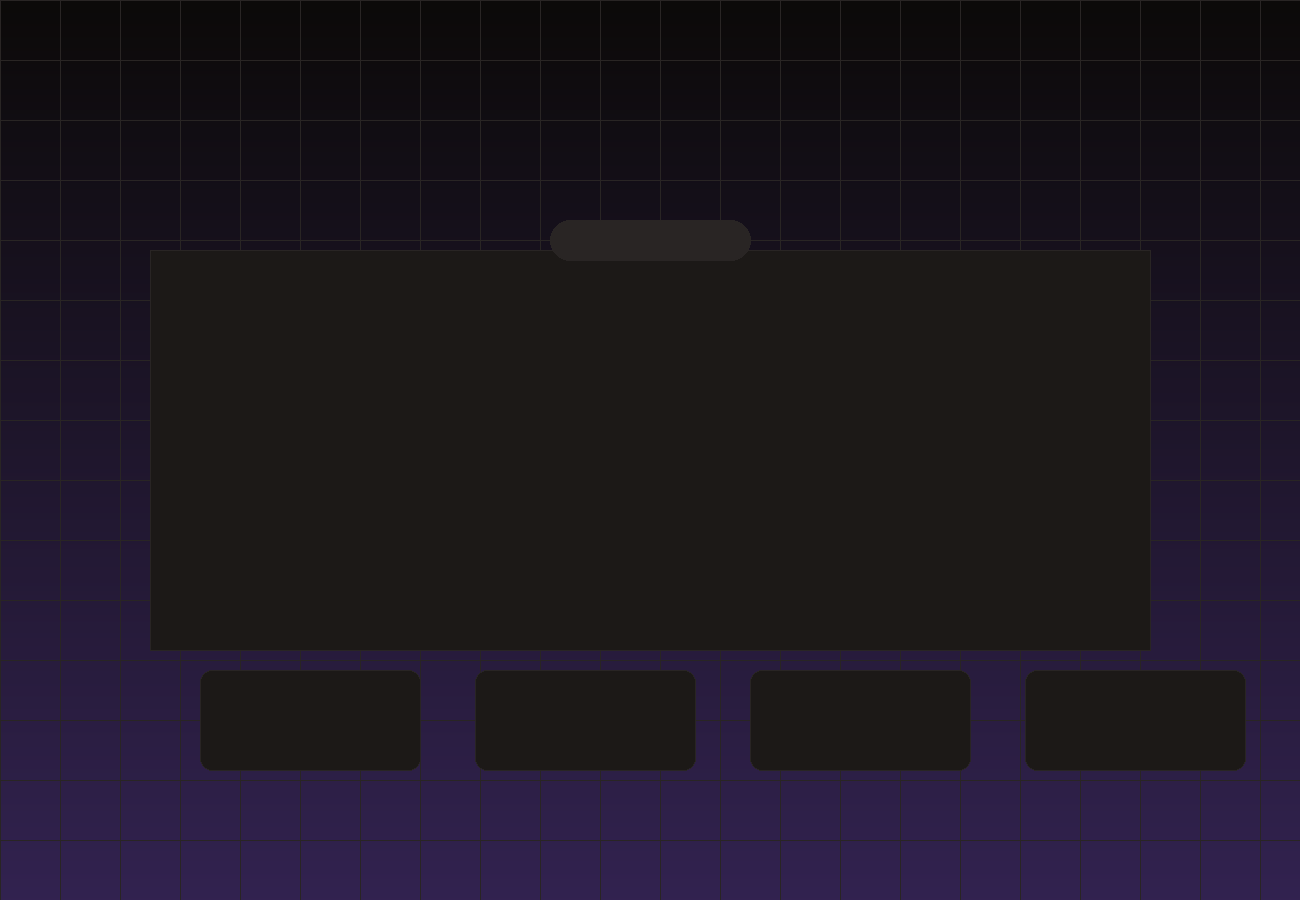
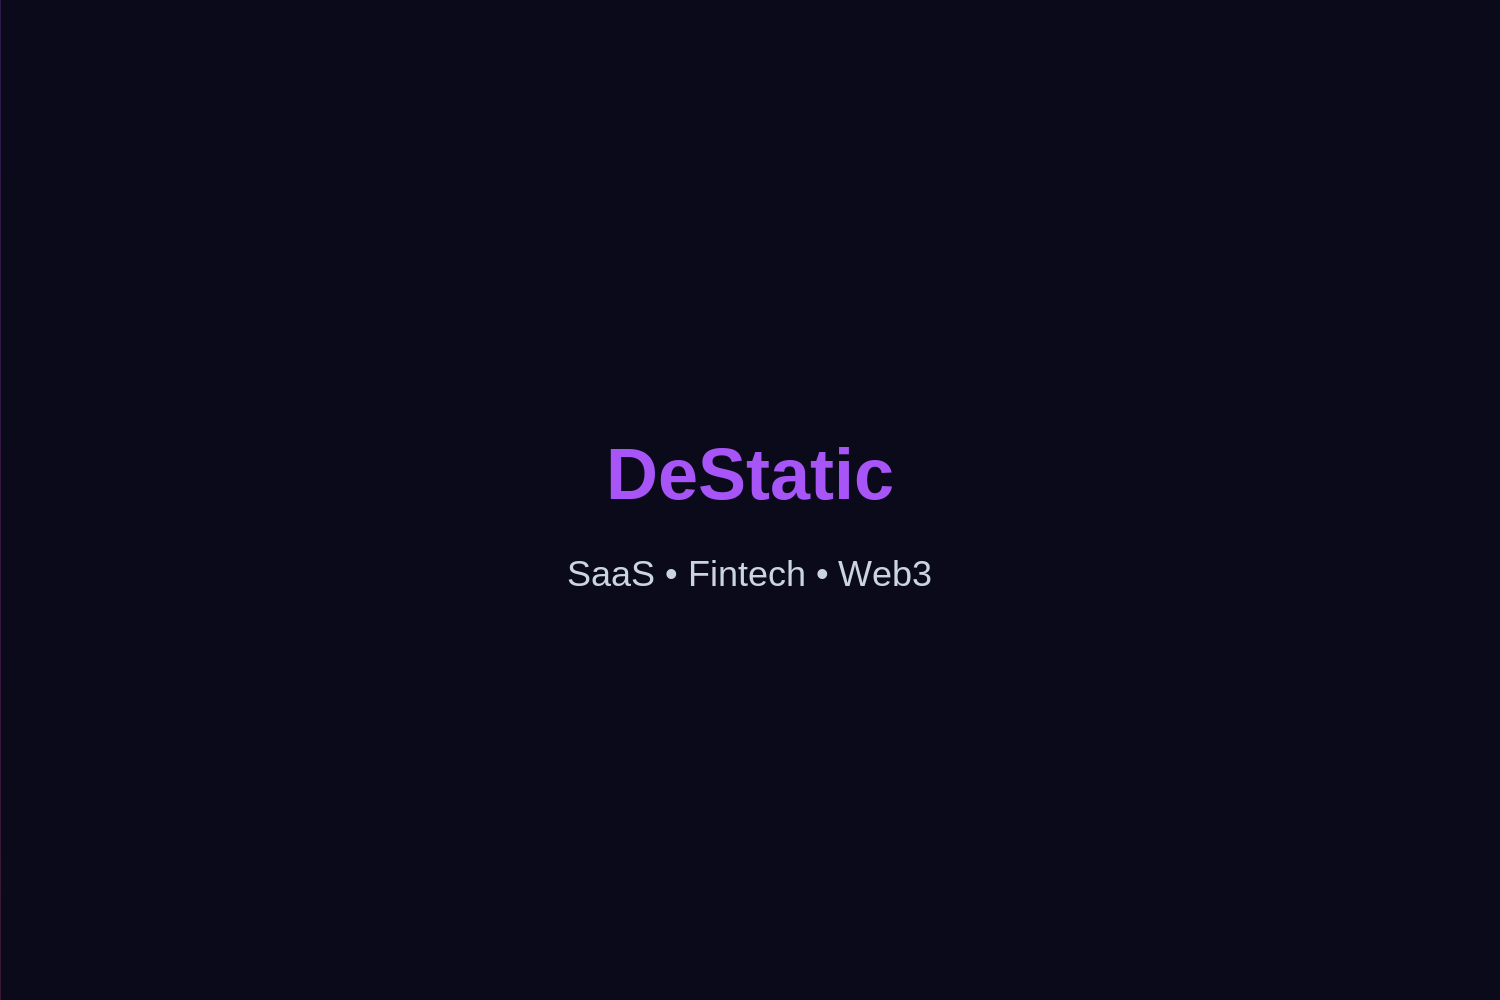
fix: resize screenshot to 1500x1000, add licenselink, update README, set baseURL per Hugo Themes guidelines

diff --git a/README.md b/README.md
@@ -8,7 +8,7 @@ Dark/light mode, design system, CMS, i18n, SEO, accessibility — all included.
 
 ```bash
 # In your Hugo site directory
-git submodule add https://github.com/seu-usuario/DeStatic themes/DeStatic
+git submodule add https://github.com/joaovsbuarque2/DeStatic themes/DeStatic
 echo 'theme = "DeStatic"' >> hugo.toml
 ```
 
@@ -32,21 +32,12 @@ npm run dev
 - **CMS** — Decap CMS pre-configured
 - **Fully configurable** — Change all content via `data/homepage.yaml`
 
-## Submitting to Hugo Themes Gallery
+## Submit to Hugo Themes Gallery
 
-1. Push this repo to GitHub (public).
-2. Go to [github.com/gohugoio/hugoThemes](https://github.com/gohugoio/hugoThemes).
-3. Fork the repo, add your theme to `themes.txt`, and submit a PR.
-4. Or use the automated tool: `npx hugo-theme-builder` (recommended).
+Open an issue at [github.com/gohugoio/hugoThemes/issues/new](https://github.com/gohugoio/hugoThemes/issues/new) with:
 
-**Requirements:**
-- Public GitHub repo with `theme.toml` in root
-- `images/screenshot.png` (1300×900) and `images/tn.png` (900×600)
-- MIT license (or compatible)
-
-## Submitting to gohugothemes.com
-
-Go to [gohugothemes.com/submit](https://www.gohugothemes.com/submit/) and fill out the form with your repo URL.
+- Title: `Add DeStatic theme`
+- Body: link to this repository (`https://github.com/joaovsbuarque2/DeStatic`)
 
 ## Structure
 